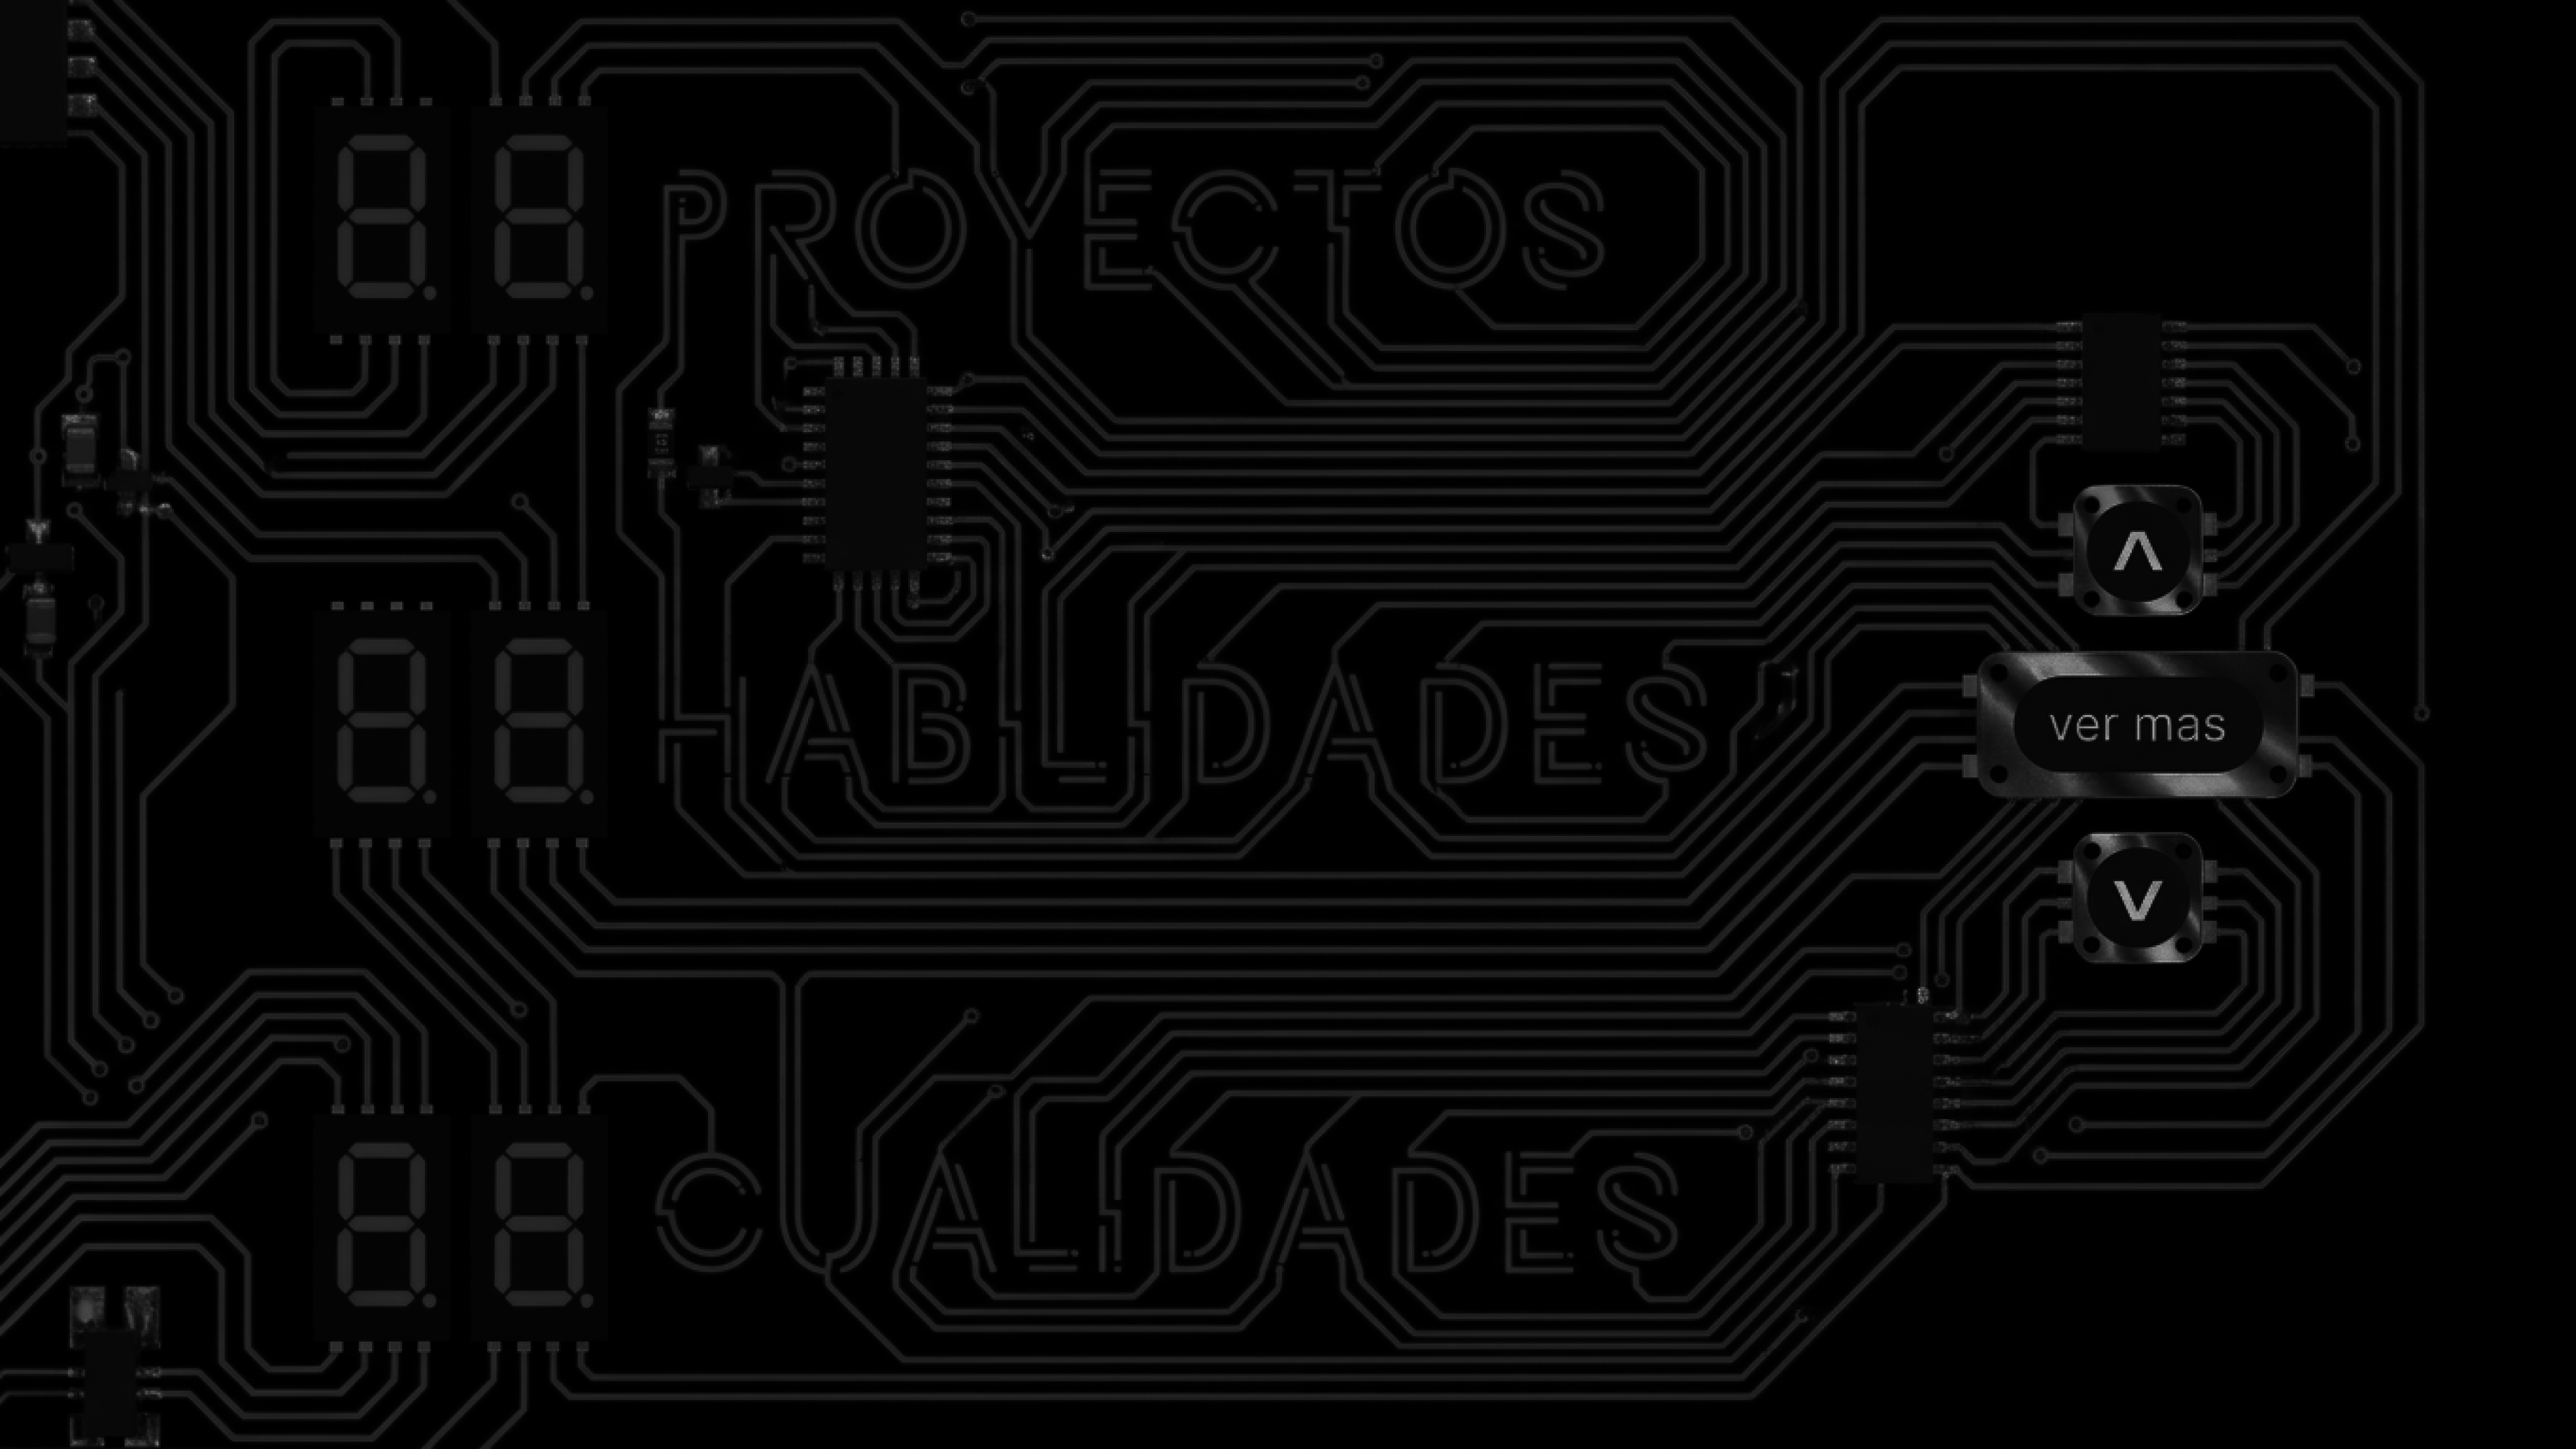
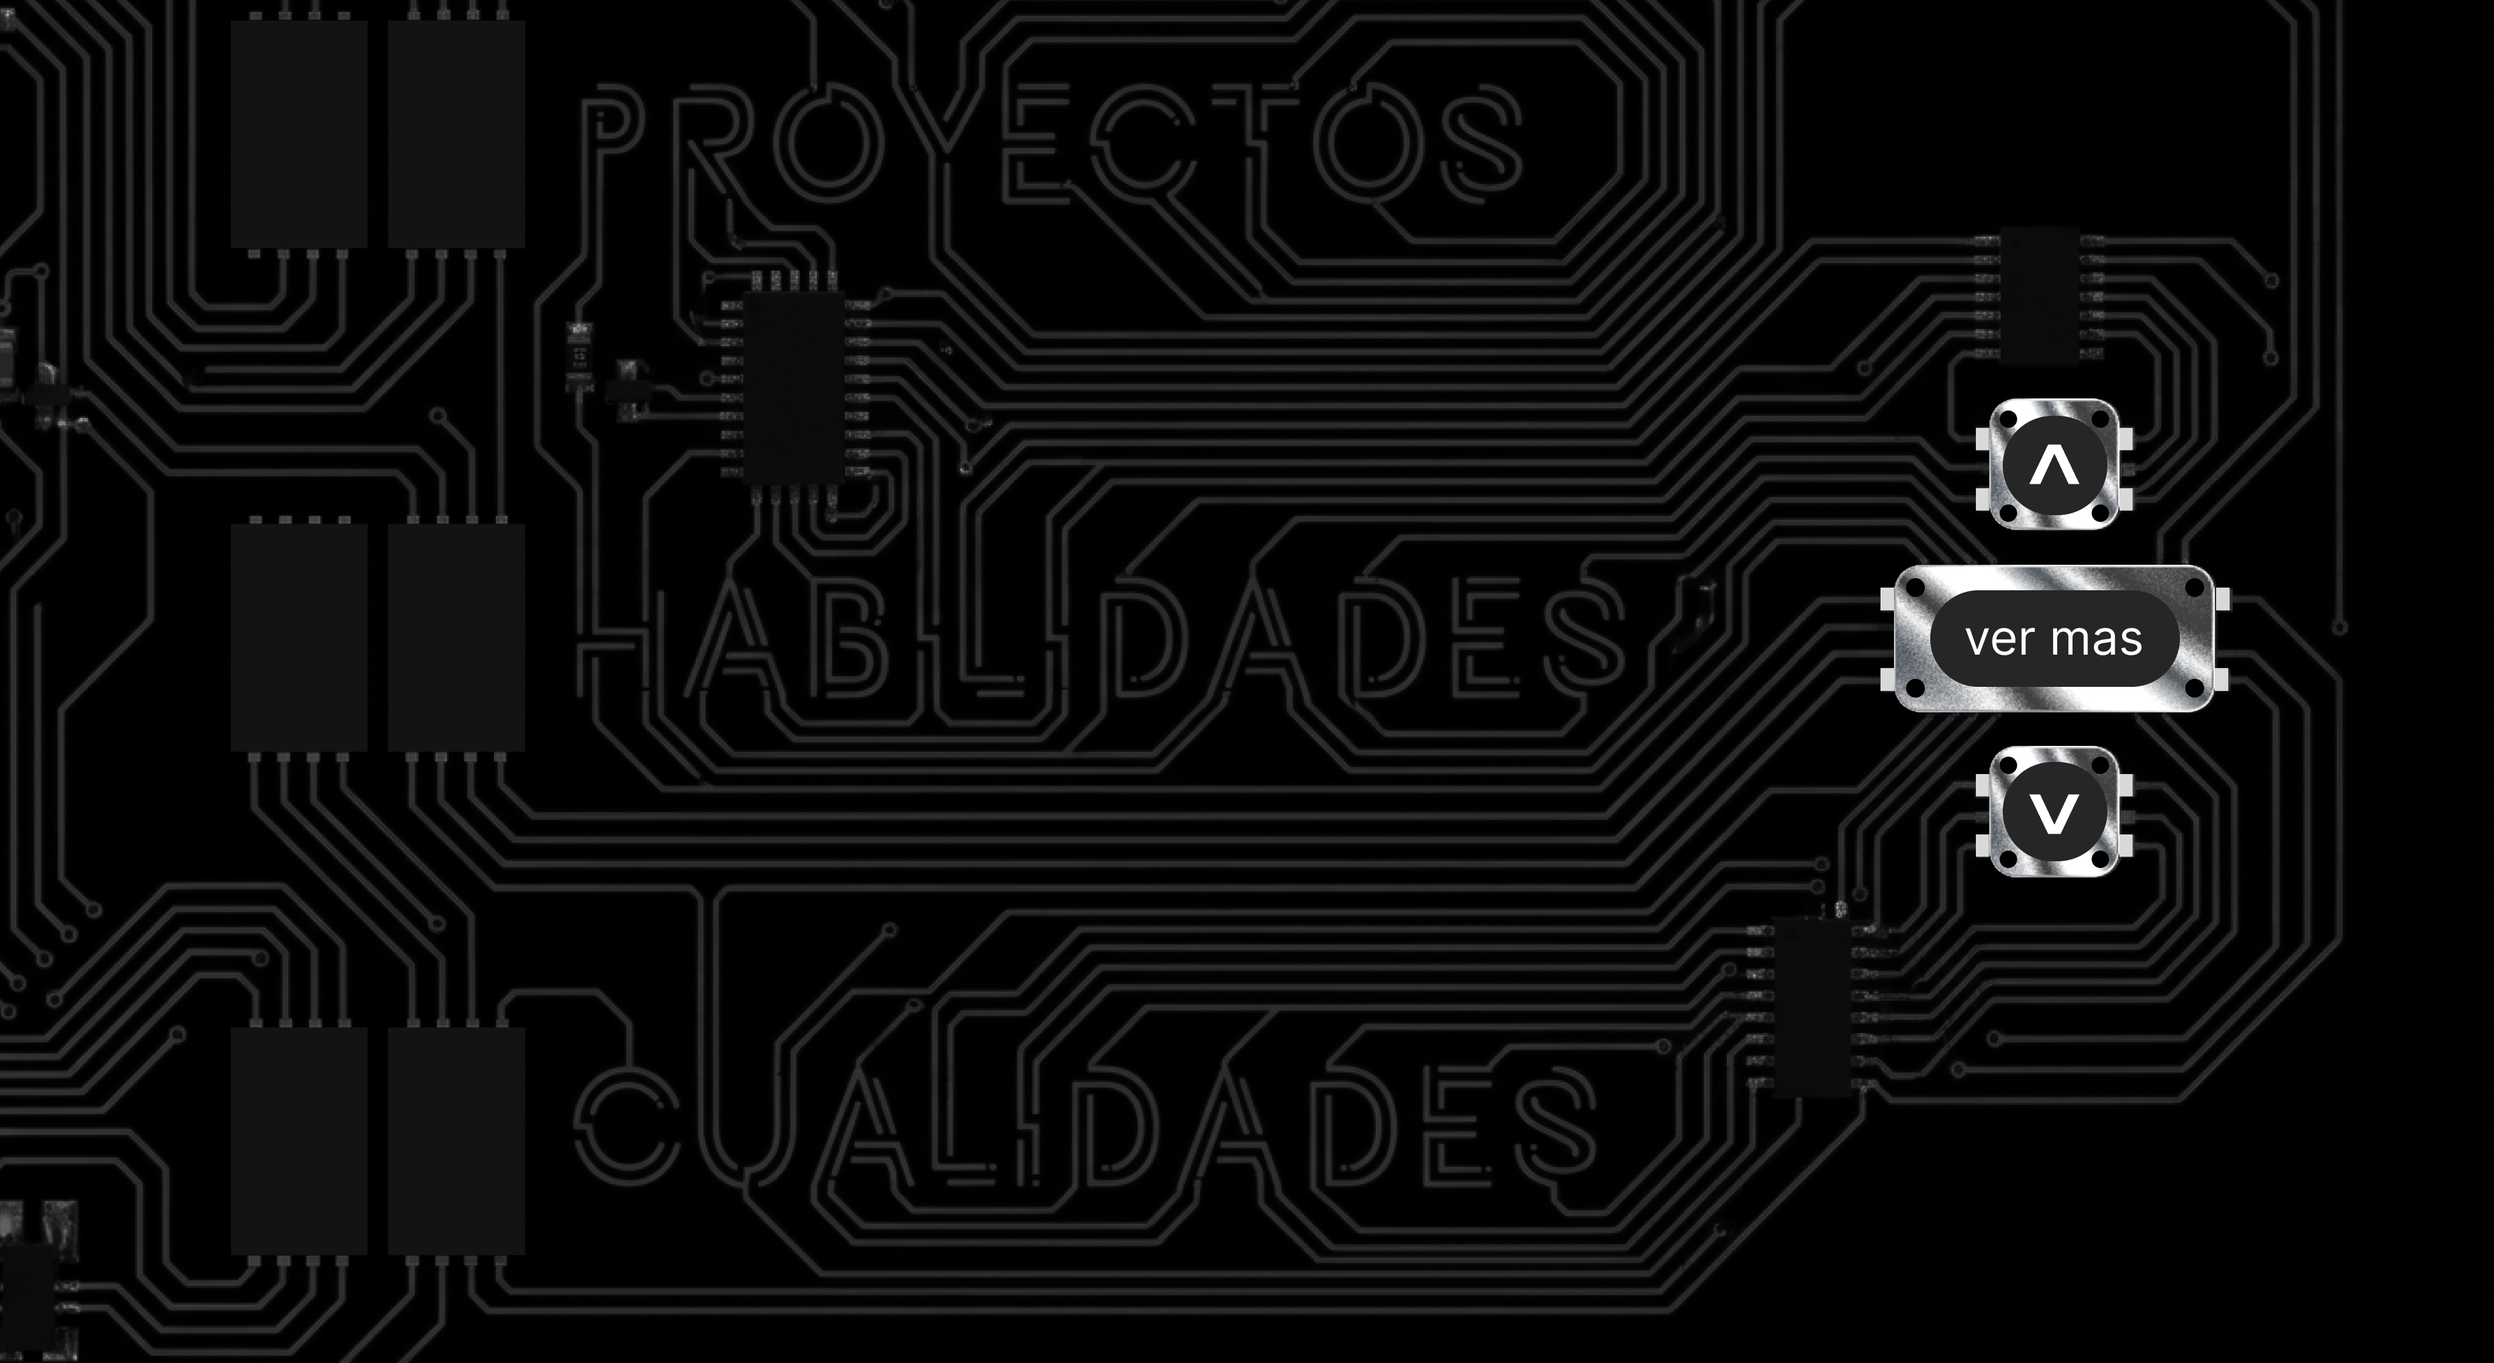
bastante bien vamos, falata el contenido jajsajajja

Changed region(s): [[0.0, 0.0, 0.9365, 1.0]]

diff --git a/src/PcbPortfolio.jsx b/src/PcbPortfolio.jsx
@@ -123,6 +123,41 @@ const BACK = { list: "main", proyectos: "list", habilidades: "list", cualidades:
 
 const HIDDEN = -240; // px: la cabeza de la franja queda fuera de pantalla, arriba
 
+/** Lee la proporción real (ancho / alto) de una imagen, así el marco siempre calza. */
+function useImageRatio(src, fallback) {
+  const [ratio, setRatio] = useState(fallback);
+  useEffect(() => {
+    if (!src) return;
+    const img = new Image();
+    img.onload = () => img.naturalHeight && setRatio(img.naturalWidth / img.naturalHeight);
+    img.src = src;
+  }, [src]);
+  return ratio;
+}
+
+/**
+ * Marco de las pantallas fijas (3 y detalle), con la proporción de su imagen.
+ *  - "contain": se ve la imagen completa; si la ventana es más ancha o más alta
+ *    quedan franjas negras a los costados o arriba y abajo.
+ *  - "cover": llena la ventana y puede recortar los bordes de la imagen.
+ */
+const frameStyle = (ratio, fit) =>
+  fit === "cover"
+    ? {
+        left: "50%",
+        bottom: 0,
+        width: `max(100vw, calc(100vh * ${ratio}))`,
+        aspectRatio: String(ratio),
+        transform: "translateX(-50%)",
+      }
+    : {
+        left: "50%",
+        top: "50%",
+        width: `min(100vw, calc(100vh * ${ratio}))`,
+        aspectRatio: String(ratio),
+        transform: "translate(-50%, -50%)",
+      };
+
 export default function PcbPortfolio({
   sections = DEFAULT_SECTIONS,
   items = SECTION_ITEMS, // los 3 textos de la pantalla 3
@@ -139,6 +174,7 @@ export default function PcbPortfolio({
   introDelay = 0.15, // parte inicial de ese tramo (0 a 1) sin franja
   endDuration = 1.4, // segundos que tarda la franja en terminar de bajar al final
   slideDuration = 1.6, // segundos que dura cada deslizamiento entre pantallas
+  panelFit = "contain", // pantallas 3 y de detalle: "contain" (se ve entera) o "cover" (llena la ventana)
   // nombre
   nameSize = 191, // tamaño del nombre en tu diseño (px)...
   designWidth = 1920, // ...sobre un lienzo de este ancho (px); se escala con la pantalla
@@ -146,6 +182,8 @@ export default function PcbPortfolio({
   const flow = sections.filter((s) => !s.panel && !s.detail); // pantallas del scroll vertical
   const panelSec = sections.find((s) => s.panel); // pantalla 3
   const detailSec = sections.find((s) => s.detail); // pantalla de detalle
+  const panelRatio = useImageRatio(panelSec?.off, 3716 / 2032);
+  const detailRatio = useImageRatio(detailSec?.off, 3840 / 2160);
 
   const wrapperRef = useRef(null);
   const contentRef = useRef(null);
@@ -427,7 +465,7 @@ export default function PcbPortfolio({
         >
           <div
             ref={(el) => (frameRefs.current.list = el)}
-            style={{ ...styles.frame, backgroundImage: `url(${panelSec.off})` }}
+            style={{ ...styles.frame, ...frameStyle(panelRatio, panelFit), backgroundImage: `url(${panelSec.off})` }}
           >
             <PcbLayers sec={panelSec} bloom={bloom} bloomBlur={bloomBlur} />
             <SkillsScreen
@@ -451,7 +489,7 @@ export default function PcbPortfolio({
           >
             <div
               ref={(el) => (frameRefs.current[key] = el)}
-              style={{ ...styles.frame, backgroundImage: `url(${detailSec.off})` }}
+              style={{ ...styles.frame, ...frameStyle(detailRatio, panelFit), backgroundImage: `url(${detailSec.off})` }}
             >
               <PcbLayers sec={detailSec} bloom={bloom} bloomBlur={bloomBlur} />
               <DetailScreen
@@ -580,7 +618,7 @@ const styles = {
     backgroundRepeat: "no-repeat",
     containerType: "inline-size", // permite usar cqw (ancho de la sección) en el texto
   },
-  // pantallas 3 y de detalle: ocupan toda la ventana; el "marco" mantiene la proporción 16:9 de la imagen
+  // pantallas 3 y de detalle: ocupan toda la ventana; el "marco" mantiene la proporción de su imagen
   panel: {
     position: "fixed",
     inset: 0,
@@ -589,12 +627,7 @@ const styles = {
     visibility: "hidden", // se muestra al deslizar
   },
   frame: {
-    position: "absolute",
-    left: "50%",
-    bottom: 0,
-    width: "max(100vw, 177.7778vh)",
-    aspectRatio: "16 / 9",
-    transform: "translateX(-50%)",
+    position: "absolute", // tamaño y posición: ver frameStyle()
     backgroundSize: "100% 100%",
     backgroundRepeat: "no-repeat",
     containerType: "inline-size",
@@ -617,19 +650,19 @@ const styles = {
     maskImage: MASK_BLOOM,
     mixBlendMode: "screen",
   },
-    name: {
+ name: {
     position: "absolute",
-    left: "49.7%", // centro del nombre dibujado en la imagen
+    left: "49.8%", // centro del nombre dibujado en la imagen
     top: "47%",
     transform: "translate(-50%, -50%)",
     margin: 0,
     whiteSpace: "nowrap",
-    lineHeight: 1,
     textAlign: "center",
     // cambiá estos para que coincida con tu diseño
     color: "#00E7F8",
     fontFamily: "potra",
     fontWeight: 300,
+    letterSpacing: -1,
   },
   box: {
     position: "absolute",

diff --git a/src/SkillsScreen.jsx b/src/SkillsScreen.jsx
@@ -4,9 +4,10 @@ import { SevenSegmentDisplay } from "./SevenSegment";
 /**
  * Contenido de la tercera pantalla (Proyectos / Habilidades / Cualidades).
  *
- * Se posiciona en % sobre una imagen de 3840 x 2160. Las posiciones salen de
- * medir tu diseño en píxeles. Si cambia la imagen, recalculá:
- *   left = x / 3840 * 100,  top = y / 2160 * 100
+ * Se posiciona en % sobre una imagen de 3716 x 2032. Las posiciones salen de
+ * medir tu diseño en píxeles. Si cambia la proporción de la imagen, recalculá:
+ *   left = x / 3716 * 100,  top = y / 2032 * 100
+ * (si solo la reescalás manteniendo la proporción, no hace falta tocar nada)
  *
  * Props:
  *   items:     [{ id, label, count }] con exactamente 3 elementos. `count` es la
@@ -19,22 +20,28 @@ import { SevenSegmentDisplay } from "./SevenSegment";
  *              misma posición que en la pantalla de detalle (ver POS.close).
  */
 
-// una fila por cada texto: posición del display y centro vertical del texto (en %)
+// Una fila por cada texto. Cada uno se mueve por separado:
+//   digitsTop: posición vertical del display (en %)
+//   textMid:   centro vertical del texto (en %)  → más alto = más abajo
+//   textLeft:  borde izquierdo del texto (en %)  → más alto = más a la derecha
+// (si omitís textLeft usa POS.textLeft, el valor común)
 const ROWS = [
-  { digitsTop: 9.35, textMid: 15.8 },
-  { digitsTop: 44.12, textMid: 49.9 },
-  { digitsTop: 78.84, textMid: 83.7 },
+  { digitsTop: 4.04, textMid: 10.54, textLeft: 22.8 }, // PROYECTOS
+  { digitsTop: 41.0, textMid: 47, textLeft: 22.8 }, // HABILIDADES
+  { digitsTop: 77.95, textMid: 82.9, textLeft: 22.8 }, // CUALIDADES
 ];
 
 const POS = {
-  digitsLeft: 13.1,
-  digitsW: 9.87,
-  digitsH: 11.39,
-  textLeft: 25.5,
-  up: { left: 79.9, top: 33.43, w: 6.04, h: 9.03 },
-  mid: { left: 76.2, top: 44.91, w: 13.52, h: 10.14 },
-  down: { left: 79.9, top: 57.41, w: 6.04, h: 9.03 },
-  close: { left: 89.17, top: 11.48, w: 6.04, h: 9.03 }, // x 3424-3656, y 248-443
+  // los dos dígitos: x 376-750 (carcasas en x 344-548 y 578-782)
+  digitsLeft: 10.32,
+  digitsW: 10.06,
+  digitsH: 11.66,
+  digitsGap: 0.67,
+  textLeft: 23.3,
+  up: { left: 79.23, top: 29.23, w: 6.3, h: 9.65 }, // x 2944-3178, y 594-790
+  mid: { left: 75.4, top: 41.44, w: 13.99, h: 10.83 }, // x 2802-3322, y 842-1062
+  down: { left: 79.23, top: 54.72, w: 6.3, h: 9.65 }, // x 2944-3178, y 1112-1308
+  close: { left: 89.17, top: 11.48, w: 6.04, h: 9.03 }, // arriba a la derecha (la X tiene que estar dibujada en la imagen)
 };
 
 const placeBox = ({ left, top, w, h }) => ({
@@ -80,6 +87,7 @@ export default function SkillsScreen({ items, lit = true, onSeeMore, onBack }) {
             <SevenSegmentDisplay
               value={on ? item.count : null}
               digits={2}
+              gap={POS.digitsGap}
               style={{
                 position: "absolute",
                 left: `${POS.digitsLeft}%`,
@@ -94,7 +102,7 @@ export default function SkillsScreen({ items, lit = true, onSeeMore, onBack }) {
               aria-current={i === active ? "true" : undefined}
               style={{
                 position: "absolute",
-                left: `${POS.textLeft}%`,
+                left: `${row.textLeft ?? POS.textLeft}%`,
                 top: `${row.textMid}%`,
                 transform: "translateY(-50%)",
               }}
@@ -144,13 +152,14 @@ const CSS = `
     white-space: nowrap;
     line-height: 1;
     font-weight: 300;
-    letter-spacing: 0.04em;
-    font-size: 6.5cqw; /* altura de letra parecida a la de tu diseño; ajustala con tu tipografía */
+    letter-spacing: 0.015em;
+    font-family: "potra";
+    font-size: 6.7cqw; /* altura de letra parecida a la de tu diseño; ajustala con tu tipografía */
     color: var(--label-off, #24383b);
     transition: color .35s ease, text-shadow .35s ease;
   }
   .sk-label[data-lit="true"] {
-    color: var(--label-on, #aef6ff);
+    color: var(--label-on, #00E7F8);
     text-shadow: 0 0 .25em rgba(174, 246, 255, .55);
   }
   .sk-btn {

diff --git a/src/SevenSegment.jsx b/src/SevenSegment.jsx
@@ -107,6 +107,7 @@ export function SevenSegmentDisplay({
   value = null,
   digits = 2,
   padZero = true, // 5 → "05" (si es false, el dígito de la izquierda queda apagado)
+  gap = 0.62, // separación entre dígitos, como fracción del ancho de un dígito
   onColor = DEFAULT_ON,
   offColor = DEFAULT_OFF,
   glow = true,
@@ -119,8 +120,7 @@ export function SevenSegmentDisplay({
     ? String(Math.min(Math.max(Math.round(value), 0), max)).padStart(digits, padZero ? "0" : " ")
     : "";
 
-  // separación entre dígitos: 0.62 veces el ancho de un dígito
-  const g = 0.62;
+  const g = gap;
   const basis = 100 / (digits + (digits - 1) * g);
 
   return (

diff --git a/src/index.css b/src/index.css
@@ -4,7 +4,7 @@ body {
 }
 @font-face {
   font-family: 'potra';
-  src: url('./assets/potra.ttf') format('truetype');
+  src: url('./assets/Potra.ttf') format('truetype');
   font-weight: normal;
   font-style: normal;
 }
